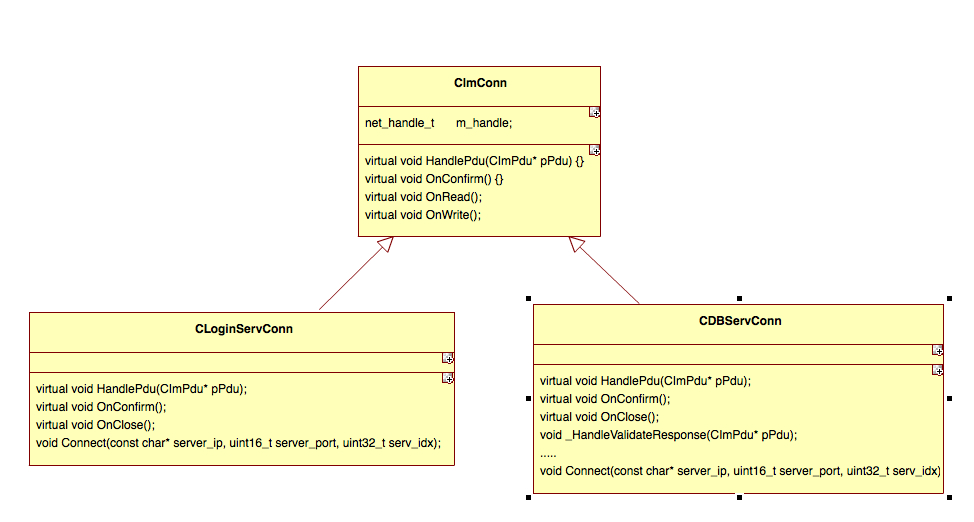
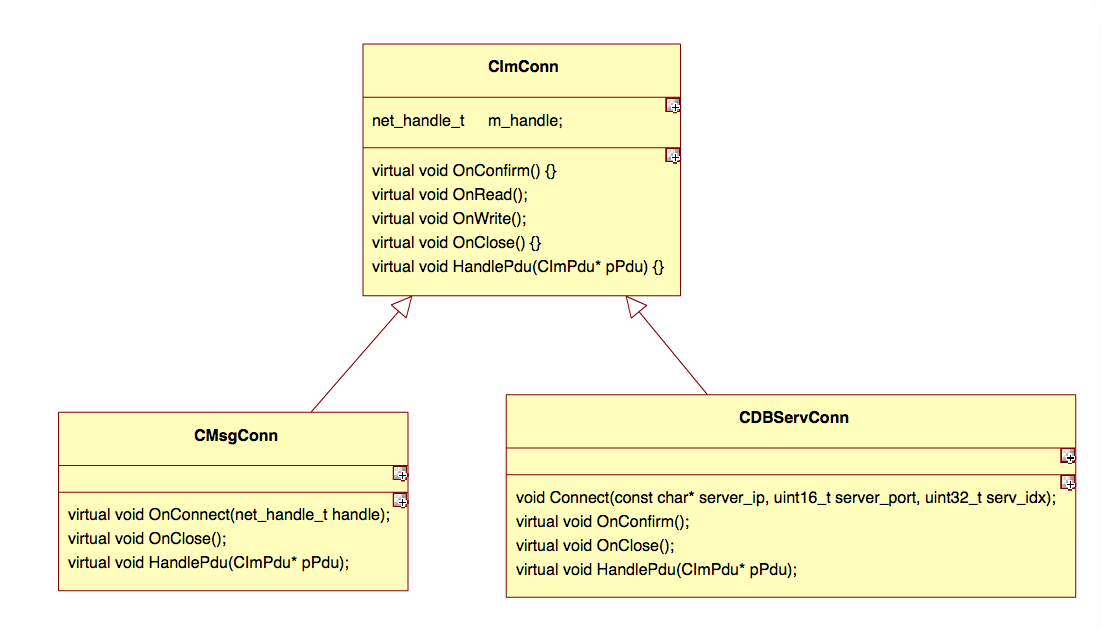
Site updated: 2016-09-06 14:29:07

Changed region(s): [[0.0308, 0.5517, 0.9856, 0.9502], [0.308, 0.0613, 0.616, 0.5517]]

diff --git a/2016/09/06/蘑菇街TeamTalk服务器端MsgServer分析(二)之用户登陆/index.html b/2016/09/06/蘑菇街TeamTalk服务器端MsgServer分析(二)之用户登陆/index.html
@@ -84,20 +84,17 @@
 
 
 
-<meta name="description" content="在客户端通过访问服务器端LoginServer获取到MsgServer的地址和端口号后，要连接到MsgServer，并想MsgServer发送一个验证用户名和密码的包；MsgServer在解析这个数据包后，会向DB_Proxy_Server发送一个验证包，DB_Proxy_Server会和数据库交互并返回给MsgServer验证结果，MsgServer会再把结果返回给客户端。
-上述流程涉及到了D">
+<meta name="description">
 <meta property="og:type" content="article">
 <meta property="og:title" content="蘑菇街TeamTalk服务器端MsgServer分析(二)之用户登陆">
 <meta property="og:url" content="http://www.duitang.com/blog/?id=497773911/2016/09/06/蘑菇街TeamTalk服务器端MsgServer分析(二)之用户登陆/index.html">
 <meta property="og:site_name" content="知其然知其所以然">
-<meta property="og:description" content="在客户端通过访问服务器端LoginServer获取到MsgServer的地址和端口号后，要连接到MsgServer，并想MsgServer发送一个验证用户名和密码的包；MsgServer在解析这个数据包后，会向DB_Proxy_Server发送一个验证包，DB_Proxy_Server会和数据库交互并返回给MsgServer验证结果，MsgServer会再把结果返回给客户端。
-上述流程涉及到了D">
+<meta property="og:description">
 <meta property="og:image" content="http://www.duitang.com/blog/?id=497773911/images/UMLer.png">
-<meta property="og:updated_time" content="2016-09-06T03:18:14.000Z">
+<meta property="og:updated_time" content="2016-09-06T06:28:50.000Z">
 <meta name="twitter:card" content="summary">
 <meta name="twitter:title" content="蘑菇街TeamTalk服务器端MsgServer分析(二)之用户登陆">
-<meta name="twitter:description" content="在客户端通过访问服务器端LoginServer获取到MsgServer的地址和端口号后，要连接到MsgServer，并想MsgServer发送一个验证用户名和密码的包；MsgServer在解析这个数据包后，会向DB_Proxy_Server发送一个验证包，DB_Proxy_Server会和数据库交互并返回给MsgServer验证结果，MsgServer会再把结果返回给客户端。
-上述流程涉及到了D">
+<meta name="twitter:description">
 <meta name="twitter:image" content="http://www.duitang.com/blog/?id=497773911/images/UMLer.png">
 
 
@@ -299,11 +296,13 @@
 
       
         <p><img src="/images/UMLer.png" alt="Mou icon"></p>
-<p>在客户端通过访问服务器端LoginServer获取到MsgServer的地址和端口号后，要连接到MsgServer，并想MsgServer发送一个验证用户名和密码的包；MsgServer在解析这个数据包后，会向DB_Proxy_Server发送一个验证包，DB_Proxy_Server会和数据库交互并返回给MsgServer验证结果，MsgServer会再把结果返回给客户端。</p>
+<a id="more"></a>
+<p>在客户端通过访问服务器端LoginServer获取到MsgServer的地址和端口号后，要连接到MsgServer，并向MsgServer发送一个验证用户名和密码的包；MsgServer在解析这个数据包后，会向DB_Proxy_Server发送一个验证包，DB_Proxy_Server会和数据库交互并返回给MsgServer验证结果，MsgServer会再把结果返回给客户端。</p>
 <p>上述流程涉及到了DB_Proxy_Server，同LoginServer一样，DB_Proxy_Server也是先启动然后监听等待MsgServer的连接；所有与数据库交互的接口都只有通过MsgServer才能访问。</p>
-<h3 id="核心类"><a href="#核心类" class="headerlink" title="核心类"></a>核心类</h3><p>用户登陆验证涉及到的核心类是LoginServConn.h中的CLoginServConn和DBServConn.h中的CDBServConn。MsgServer解析到这一步会发现MsgServer的一个简单的类架构，如顶部的类图所示。</p>
-<p>CImConn是基类，保存了连接到不同服务器【LoginServer和DB_Proxy_Server】的m_handle；<br>HandlePdu()是处理不同类型数据包的处理函数，基类中没有实现，需要子类实现，这就将不同的业务数据处理分开了。<br>OnRead()是通过BaseSocket在Epoll机制下可读时来调用，用来读取数据包。<br>OnConfirm()是当前m_handle在连接的Server端被Accept后触发EPOLLOUT后来调用的，明确m_handle可以读写。</p>
-<p>CLoginServConn和CDBServConn子类中实现了连接Server的Connect()方法，和处理不同数据包的HandlePdu()方法。</p>
+<h3 id="核心类"><a href="#核心类" class="headerlink" title="核心类"></a>核心类</h3><p>用户登陆验证涉及到的核心类是MsgConn.h中的CMsgConn和DBServConn.h中的CDBServConn。MsgServer解析到这一步会发现MsgServer的一个简单的类架构，如顶部的类图所示。</p>
+<h5 id="CImConn"><a href="#CImConn" class="headerlink" title="CImConn"></a>CImConn</h5><p>CImConn是基类，保存了连接到不同服务器【LoginServer和DB_Proxy_Server】的m_handle；<br>HandlePdu()是处理不同类型数据包的处理函数，基类中没有实现，需要子类实现，这就将不同的业务数据处理进行了分离。<br>OnRead()是通过BaseSocket在Epoll机制下可读时来调用，用来读取数据包。<br>OnConfirm()是当前m_handle在连接的Server端被Accept后触发EPOLLOUT后来调用的，明确m_handle可以读写。</p>
+<h5 id="CMsgConn"><a href="#CMsgConn" class="headerlink" title="CMsgConn"></a>CMsgConn</h5><p>CMsgConn是客户端访问MsgServer的封装,自己实现了HandlePdu(),用来处理用户登陆登出之类的业务。</p>
+<h5 id="CDBServConn"><a href="#CDBServConn" class="headerlink" title="CDBServConn"></a>CDBServConn</h5><p>CDBServConn是MsgServer连接到DB_Proxy_Server的封装，因为这里MsgServer是主动连接到DB_Proxy_Server的，所以内部实现了Connect();同样也实现了HandlePdu(),用来完成和数据库相关的一些业务，比如用户登陆验证等。</p>
 
       
     </div>
@@ -471,7 +470,7 @@
               
             
             
-              <div class="post-toc-content"><ol class="nav"><li class="nav-item nav-level-3"><a class="nav-link" href="#核心类"><span class="nav-number">1.</span> <span class="nav-text">核心类</span></a></li></ol></div>
+              <div class="post-toc-content"><ol class="nav"><li class="nav-item nav-level-3"><a class="nav-link" href="#核心类"><span class="nav-number">1.</span> <span class="nav-text">核心类</span></a><ol class="nav-child"><li class="nav-item nav-level-5"><a class="nav-link" href="#CImConn"><span class="nav-number">1.0.1.</span> <span class="nav-text">CImConn</span></a></li><li class="nav-item nav-level-5"><a class="nav-link" href="#CMsgConn"><span class="nav-number">1.0.2.</span> <span class="nav-text">CMsgConn</span></a></li><li class="nav-item nav-level-5"><a class="nav-link" href="#CDBServConn"><span class="nav-number">1.0.3.</span> <span class="nav-text">CDBServConn</span></a></li></ol></li></ol></li></ol></div>
             
           </div>
         </section>

diff --git a/index.html b/index.html
@@ -298,15 +298,12 @@
 
       
         
-          
-            <p><img src="/images/UMLer.png" alt="Mou icon"></p>
-<p>在客户端通过访问服务器端LoginServer获取到MsgServer的地址和端口号后，要连接到MsgServer，并想MsgServer发送一个验证用户名和密码的包；MsgServer在解析这个数据包后，会向DB_Proxy_Server发送一个验证包，DB_Proxy_Server会和数据库交互并返回给MsgServer验证结果，MsgServer会再把结果返回给客户端。</p>
-<p>上述流程涉及到了DB_Proxy_Server，同LoginServer一样，DB_Proxy_Server也是先启动然后监听等待MsgServer的连接；所有与数据库交互的接口都只有通过MsgServer才能访问。</p>
-<h3 id="核心类"><a href="#核心类" class="headerlink" title="核心类"></a>核心类</h3><p>用户登陆验证涉及到的核心类是LoginServConn.h中的CLoginServConn和DBServConn.h中的CDBServConn。MsgServer解析到这一步会发现MsgServer的一个简单的类架构，如顶部的类图所示。</p>
-<p>CImConn是基类，保存了连接到不同服务器【LoginServer和DB_Proxy_Server】的m_handle；<br>HandlePdu()是处理不同类型数据包的处理函数，基类中没有实现，需要子类实现，这就将不同的业务数据处理分开了。<br>OnRead()是通过BaseSocket在Epoll机制下可读时来调用，用来读取数据包。<br>OnConfirm()是当前m_handle在连接的Server端被Accept后触发EPOLLOUT后来调用的，明确m_handle可以读写。</p>
-<p>CLoginServConn和CDBServConn子类中实现了连接Server的Connect()方法，和处理不同数据包的HandlePdu()方法。</p>
-
-          
+          <p><img src="/images/UMLer.png" alt="Mou icon"></p>
+          <div class="post-more-link text-center">
+            <a class="btn" href="/2016/09/06/蘑菇街TeamTalk服务器端MsgServer分析(二)之用户登陆/#more" rel="contents">
+              阅读全文 &raquo;
+            </a>
+          </div>
         
       
     </div>

diff --git a/css/main.css b/css/main.css
@@ -1549,7 +1549,7 @@ pre .javascript .function {
   width: 4px;
   height: 4px;
   border-radius: 50%;
-  background: #ff810f;
+  background: #ff0f54;
 }
 .links-of-blogroll {
   font-size: 13px;
